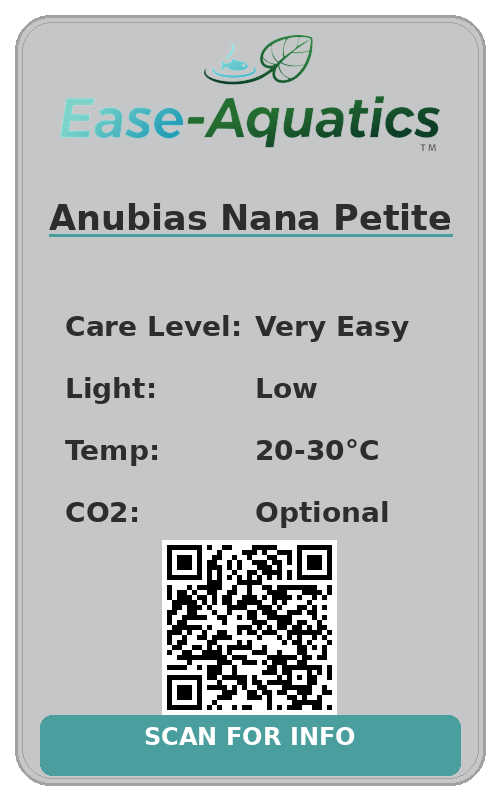
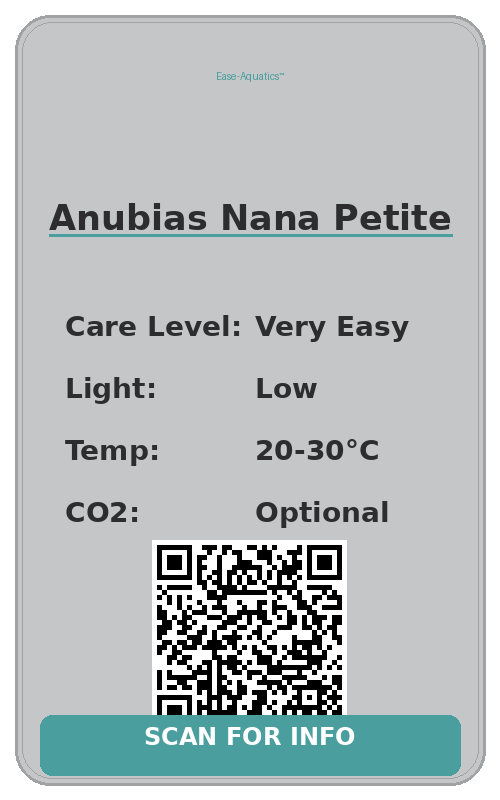
Fixed gen to make new files using actual url

Changed region(s): [[0.3, 0.6562, 0.72, 0.9062], [0.12, 0.0312, 0.87, 0.1875]]

diff --git a/qr_gen.py b/qr_gen.py
@@ -9,9 +9,10 @@ Image.MAX_IMAGE_PIXELS = None
 GITHUB_USERNAME = "KILLSH0T007" 
 REPO_NAME = "ease-aquatics-catalog"
 
-# This URL will be active once you enable GitHub Pages in settings
-BASE_URL = f"https://{GITHUB_USERNAME}.github.io/{REPO_NAME}"
-LOGO_FILE = "Logo_Clean.png"
+# This matches your live GitHub Pages structure
+BASE_URL = f"https://{GITHUB_USERNAME}.github.io/{REPO_NAME}/dist"
+# Update this to .jpg to match your uploaded "Logo_Clean.jpg"
+LOGO_FILE = "Logo_Clean.jpg" 
 LABEL_DIR = "Final_Branded_Stickers"
 
 # --- BRAND PALETTE ---
@@ -22,10 +23,17 @@ TEAL = (74, 158, 158, 255)
 TEXT_DARK = (45, 45, 48, 255) 
 BORDER_SILVER = (160, 162, 164, 255) 
 
+# --- FULL PLANT DATA (Synced with aquatics.py) ---
 plant_data = [
-    {"id": "anubias-nana-petite", "name": "Anubias Nana Petite", "care": "Very Easy", "light": "Low", "temp": "20-30°C", "co2": "Optional"},
     {"id": "monte-carlo", "name": "Monte Carlo", "care": "Medium", "light": "High", "temp": "22-28°C", "co2": "High"},
-    {"id": "pogo-helferi", "name": "Pogostemon Helferi", "care": "Medium", "light": "Med/High", "temp": "22-30°C", "co2": "Required"}
+    {"id": "pogo-helferi", "name": "Pogostemon Helferi", "care": "Medium", "light": "Med/High", "temp": "22-30°C", "co2": "Required"},
+    {"id": "crypt-wendtii", "name": "Cryptocoryne Wendtii", "care": "Easy", "light": "Low-Med", "temp": "20-28°C", "co2": "Optional"},
+    {"id": "anubias-nana-petite", "name": "Anubias Nana Petite", "care": "Very Easy", "light": "Low", "temp": "20-30°C", "co2": "Optional"},
+    {"id": "crypt-flamingo", "name": "Cryptocoryne Flamingo", "care": "Hard", "light": "High", "temp": "22-28°C", "co2": "High"},
+    {"id": "hairgrass-mini", "name": "Hairgrass Mini", "care": "Medium", "light": "Medium", "temp": "20-28°C", "co2": "Recommended"},
+    {"id": "staurogyne-repens", "name": "Staurogyne Repens", "care": "Easy", "light": "Medium", "temp": "20-28°C", "co2": "Recommended"},
+    {"id": "rotala-green", "name": "Rotala Green", "care": "Easy", "light": "Medium", "temp": "20-30°C", "co2": "Recommended"},
+    {"id": "weeping-moss", "name": "Weeping Moss", "care": "Easy", "light": "Low-Med", "temp": "18-26°C", "co2": "Optional"}
 ]
 
 def create_branded_sticker(plant):
@@ -64,15 +72,10 @@ def create_branded_sticker(plant):
 
     # 6. Plant Name & Manual Underline
     name_text = plant['name']
-    name_pos = (250, 230) # (x, y)
-    
-    # Draw the text
+    name_pos = (250, 230)
     draw.text(name_pos, name_text, fill=TEXT_DARK, font=f_name, anchor="ms")
-    
-    # Calculate text width for the underline
-    # Using textbbox to get the width of the string
     left, top, right, bottom = draw.textbbox(name_pos, name_text, font=f_name, anchor="ms")
-    underline_y = bottom + 5  # 5 pixels below the text
+    underline_y = bottom + 5
     draw.line([(left, underline_y), (right, underline_y)], fill=TEAL, width=3)
 
     # 7. Care Info Section
@@ -90,7 +93,7 @@ def create_branded_sticker(plant):
         draw.text((65, curr_y), label, fill=TEXT_DARK, font=f_label)
         draw.text((255, curr_y), val, fill=TEXT_DARK, font=f_val)
 
-    # 8. QR Code
+    # 8. QR Code pointing to live GitHub site
     qr_url = f"{BASE_URL}/{plant['id']}.html"
     qr = qrcode.QRCode(box_size=5, border=1) 
     qr.add_data(qr_url)
